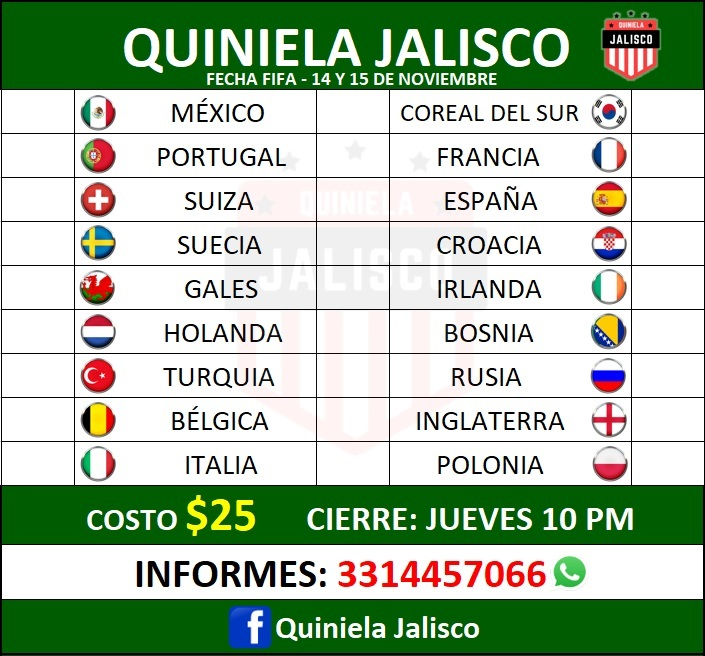
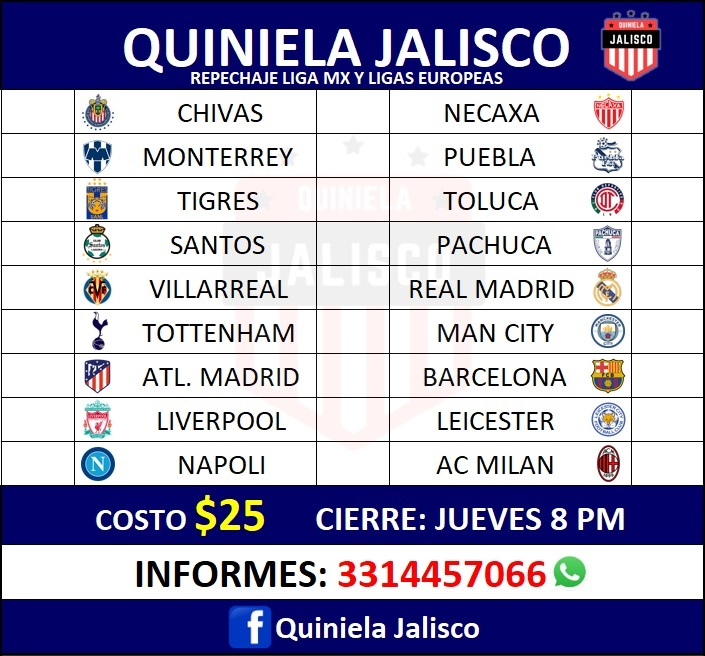
Repechaje

diff --git a/styles.css b/styles.css
@@ -7,7 +7,7 @@
 
 .quiniela{
     margin: auto;
-    background-image: url("https://scontent.fgdl9-1.fna.fbcdn.net/v/t1.15752-9/124669950_3629426653762757_8841174880892046647_n.png?_nc_cat=111&ccb=2&_nc_sid=ae9488&_nc_eui2=AeE6jXpIKQB8JnzvvAEzzU5WVkEnw8Q44ANWQSfDxDjgA9vON_zuDlzgE-0Zup6YmYMVlrcTyhKVC7wdquvEFqS5&_nc_ohc=Pd9YEKIeZUcAX81jgKT&_nc_ht=scontent.fgdl9-1.fna&oh=0cebb3c071366507b46c6a1e539d00df&oe=5FD027A5");
+    background-image: url("https://scontent.fgdl9-1.fna.fbcdn.net/v/t1.15752-9/125469172_438845380847871_1210472772169328836_n.png?_nc_cat=111&ccb=2&_nc_sid=ae9488&_nc_ohc=vBA4kVMRv8kAX8d0Y83&_nc_ht=scontent.fgdl9-1.fna&oh=a1294f0e12ce02f9b686c70932f5fa5d&oe=5FD6F4A1");
     background-size: 100%;
     background-repeat: no-repeat;
     max-width: 400px;
@@ -79,8 +79,8 @@ h1{
     margin-top: 8%;
     border: solid 1px black;
     border-radius: 0 0 20px 20px;
-    background: -webkit-linear-gradient(0, black ,rgb(0,92,1) 80%);
-    background: linear-gradient(0, black,rgb(0,92,1) 80%);
+    background: -webkit-linear-gradient(0, black ,rgb(1,0,102) 80%);
+    background: linear-gradient(0, black,rgb(1,0,102) 80%);
 }
 
 h2,h3, #nombre{
